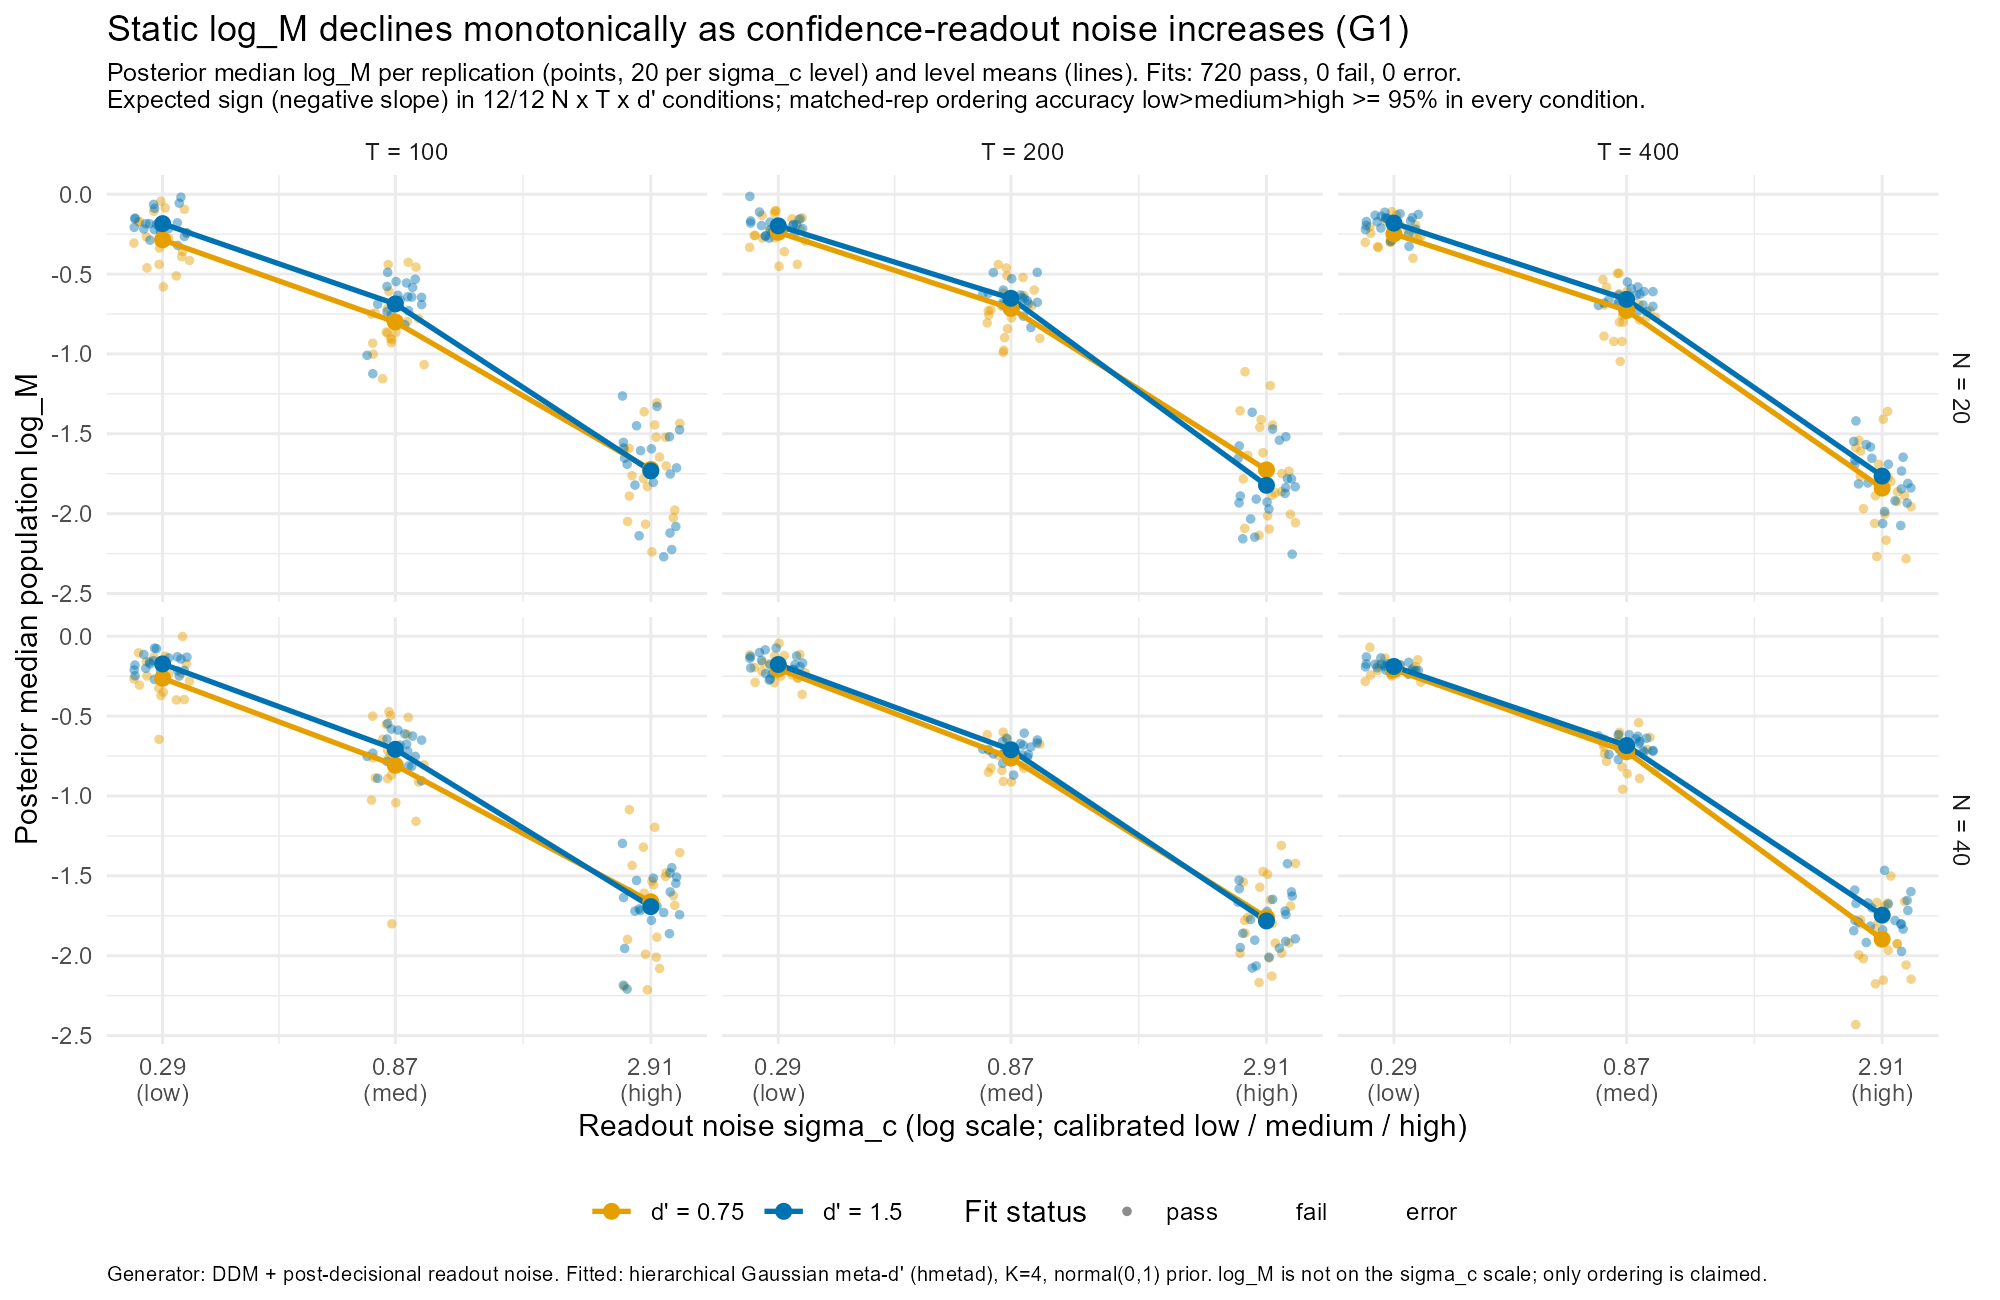
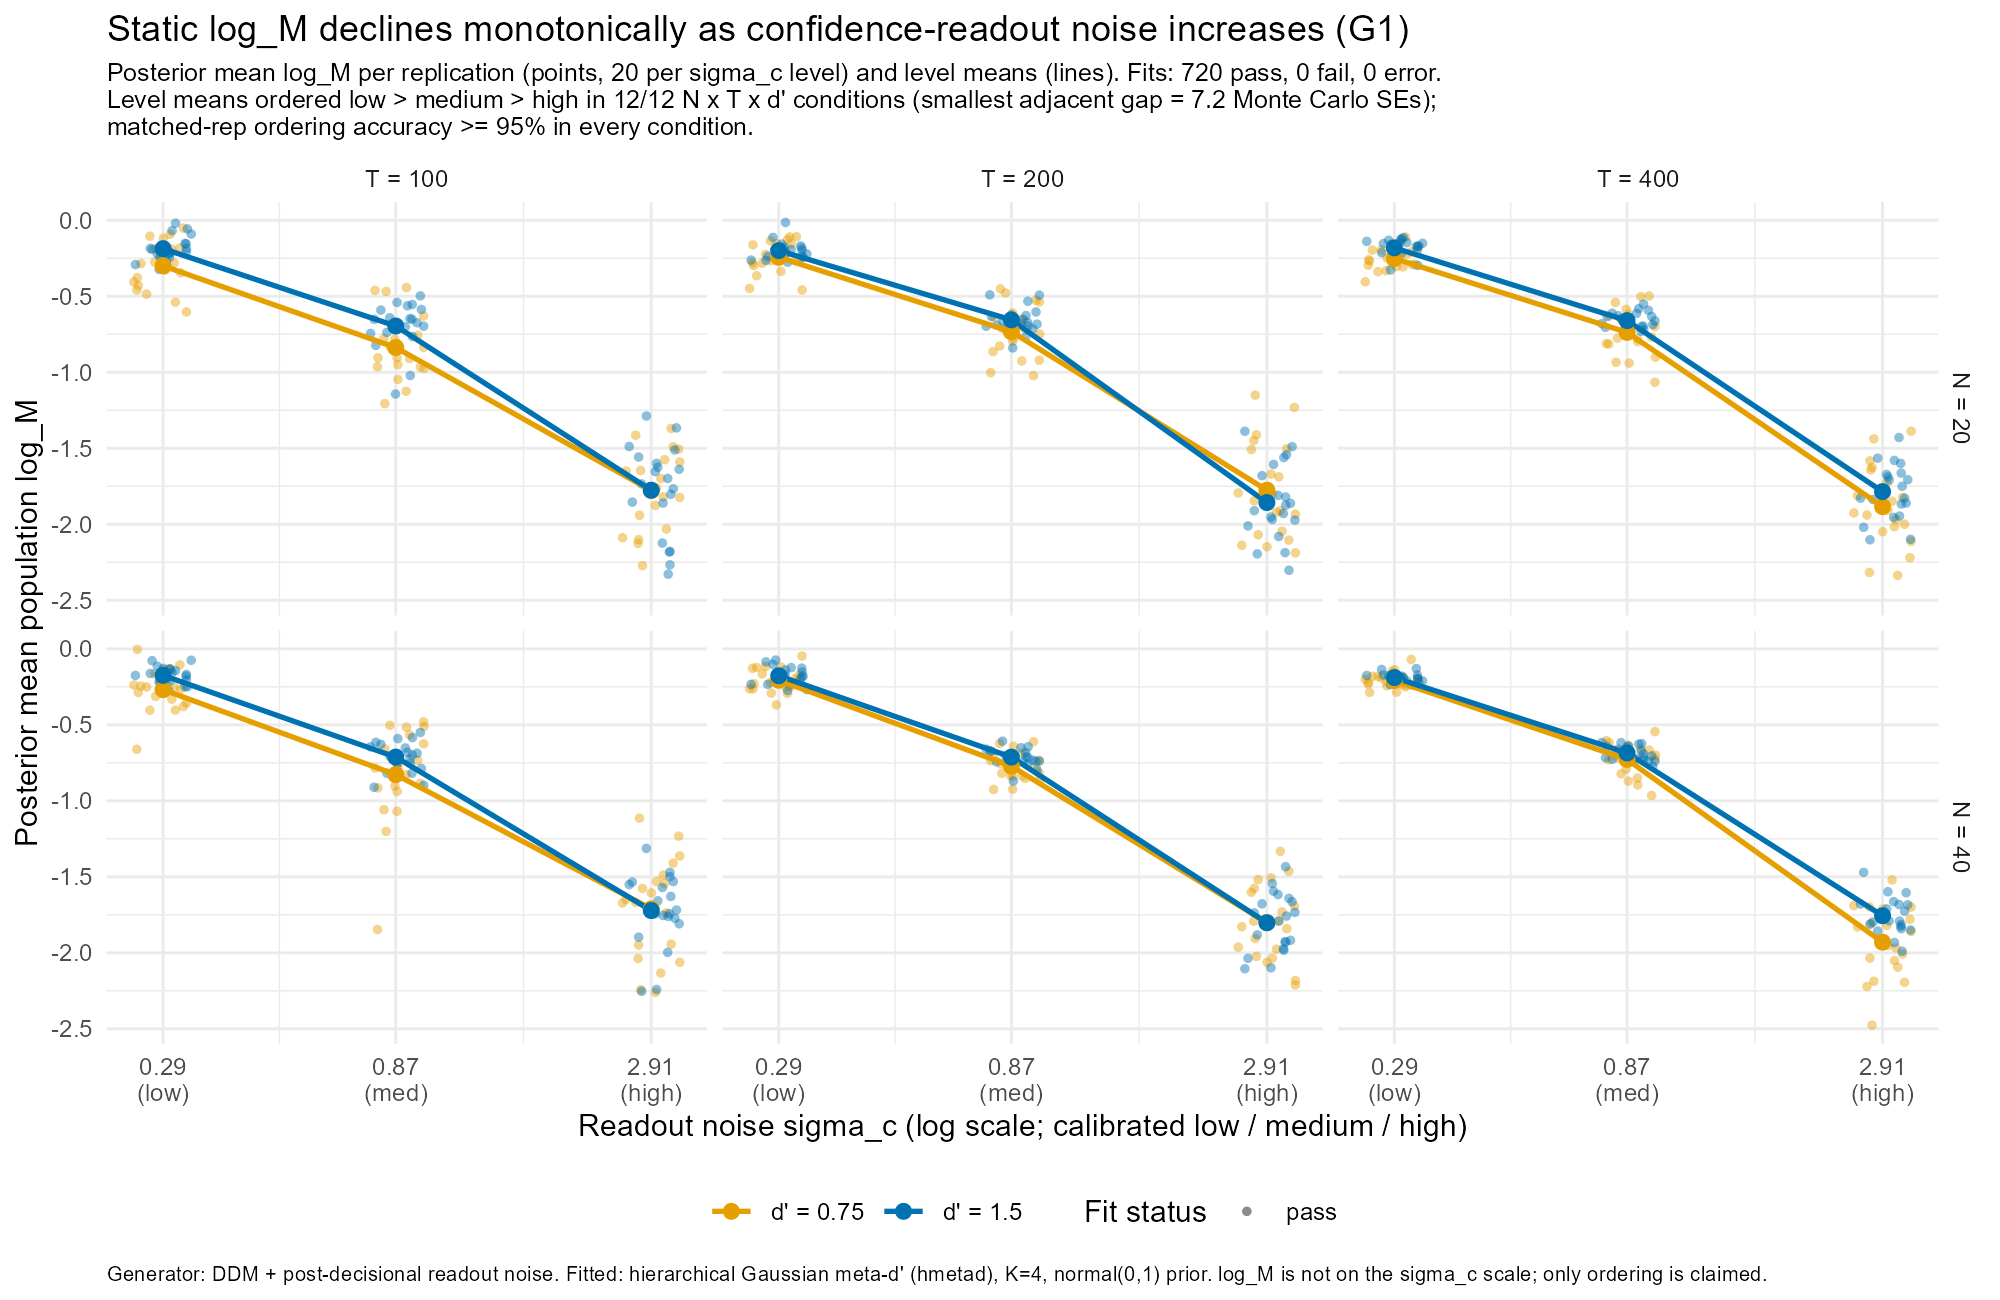
refactor: G1 summary as level means/differences with MC SEs, posterior-mean primary, R-hat > threshold, stable Gumbel lcdf (review items 6-10)

diff --git a/manuscript/report.md b/manuscript/report.md
@@ -4,7 +4,7 @@
 
 ## Abstract
 
-**Background.** Static meta-d′ models are widely fitted to confidence ratings, although confidence may arise from dynamic, noisy post-decisional processes. **Methods.** We simulated ordinal confidence from a drift-diffusion process with post-decisional readout noise (G1), from the meta-d′ model itself (G0), and from a non-Gaussian Gumbel-min signal distribution (G2), and fitted hierarchical Bayesian meta-d′ models with `hmetad` (20 or 40 participants, 100–400 trials, 20 replications per cell; 1,440 fits). **Results.** In G1, posterior log M fell as readout noise rose in all 12 design cells (slopes −0.50 to −0.63); the expected ordering held in every matched replication in 11 cells and in 95% in the twelfth. G0 credible-interval coverage was 95.8% pooled across cells. In G2, leave-one-out comparison preferred the correct family in 96.2% of datasets, and Gaussian misspecification biased log M upward (+0.06 to +0.20). Posterior predictive discrepancies were small for every representative fit, including the misspecified one. **Conclusions.** In this generator, ordinal recovery of metacognitive efficiency was robust, but small predictive discrepancy did not diagnose misspecification. Conclusions are conditional on the simulated processes.
+**Background.** Static meta-d′ models are widely fitted to confidence ratings, although confidence may arise from dynamic, noisy post-decisional processes. **Methods.** We simulated ordinal confidence from a drift-diffusion process with post-decisional readout noise (G1), from the meta-d′ model itself (G0), and from a non-Gaussian Gumbel-min signal distribution (G2), and fitted hierarchical Bayesian meta-d′ models with `hmetad` (20 or 40 participants, 100–400 trials, 20 replications per cell; 1,440 fits). **Results.** In G1, posterior log M fell as readout noise rose in all 12 design cells (adjacent-level differences in mean log M of 0.46 to 0.57 for low−medium and 0.88 to 1.20 for medium−high); the expected ordering held in every matched replication in 11 cells and in 95% in the twelfth. G0 credible-interval coverage was 95.8% pooled across cells. In G2, leave-one-out comparison preferred the correct family in 96.2% of datasets, and Gaussian misspecification biased log M upward (+0.06 to +0.20). Posterior predictive discrepancies were small for every representative fit, including the misspecified one. **Conclusions.** In this generator, ordinal recovery of metacognitive efficiency was robust, but small predictive discrepancy did not diagnose misspecification. Conclusions are conditional on the simulated processes.
 
 ## 1. Background and rationale
 
@@ -16,7 +16,7 @@ Simulation is required because real data contain no known noise parameter, so re
 
 Design decisions were written to `docs/design_decisions.md` before production runs and any deviation is dated there and in `docs/analysis_log.md`.
 
-- **RQ1 (G1).** When confidence is generated with readout noise σ_c, does posterior `log_M` from a static Gaussian model fall monotonically as σ_c rises? *Prediction:* negative slope of `log_M` on σ_c and the ordering low > medium > high in most replications. We do not claim that `log_M` numerically recovers σ_c; the two are on different scales.
+- **RQ1 (G1).** When confidence is generated with readout noise σ_c, does posterior `log_M` from a static Gaussian model fall monotonically as σ_c rises? *Prediction:* level means ordered low > medium > high and that ordering in most replications. We do not claim that `log_M` numerically recovers σ_c; the two are on different scales.
 - **RQ2 (G2).** When the signal distribution is Gumbel-min, how do inference and predictive fit change between the correctly specified and the default Gaussian model? *Prediction:* LOO prefers the correct family, more strongly with more data.
 - **RQ3.** How often do fits fail diagnostics, and where? Failure is reported as an outcome, not as bias.
 
@@ -41,7 +41,7 @@ All fits use a hierarchical `hmetad` model with participant-level random interce
 A fit passes if max R-hat < 1.01, bulk and tail ESS ≥ 400, and there are no divergences or maximum-treedepth hits, judged on population-level effects and random-effect SDs. A flagged fit is refitted once (adapt_delta 0.99, treedepth 14). If it is still flagged it is labelled `fail`. **Pre-registered rule:** the primary analysis includes `pass` and `fail` fits (failures flagged); the sensitivity analysis uses `pass` only; `error` rows would be excluded from estimation and counted as convergence failures.
 
 ### 3.5 Metrics
-G0: bias, RMSE, 95% credible-interval coverage (Wilson intervals; pooled across cells because per-cell coverage is imprecise at 20 replications). G1: per-cell regression slope of posterior median `log_M` on σ_c, Spearman correlation, ordering accuracy (paired by replication index; σ_c levels do not share simulation seeds), and Mann–Whitney-style separation probabilities. G2: paired ELPD difference (correct − misspecified) from LOO, whose observation unit is one *participant's* aggregated count vector, and `log_M` bias/RMSE for each family. Robustness: prior width, K = 6 re-binning of the G1 data (G0 cannot be re-binned; see Limitations), and posterior predictive checks.
+G0: bias, RMSE, 95% credible-interval coverage (Wilson intervals; pooled across cells because per-cell coverage is imprecise at 20 replications). G1: per-cell means of posterior-mean `log_M` at each σ_c level, adjacent-level differences with Monte Carlo SEs, Spearman correlation, ordering accuracy (paired by replication index; σ_c levels do not share simulation seeds), and Mann–Whitney-style separation probabilities. G2: paired ELPD difference (correct − misspecified) from LOO, whose observation unit is one *participant's* aggregated count vector, and `log_M` bias/RMSE for each family. Robustness: prior width, K = 6 re-binning of the G1 data (G0 cannot be re-binned; see Limitations), and posterior predictive checks.
 
 ## 4. Results
 
@@ -49,7 +49,7 @@ G0: bias, RMSE, 95% credible-interval coverage (Wilson intervals; pooled across 
 Posterior mean `log_M` was negatively biased in all 12 cells (−0.177 to −0.025), and RMSE generally fell with more data and higher d′ (from 0.326 at N = 20, T = 200, d′ = 0.75 to 0.069 at N = 40, T = 400, d′ = 1.5), though not strictly monotonically in T within d′ = 0.75. Pooled coverage was 95.8% (230/240; 95% CI 92.5–97.7%; MCSE 1.3%). Per-cell coverage ranged from 80% to 100%, which is uninformative on its own at 20 replications per cell.
 
 ### 4.2 G1: ordinal recovery (Fig. 3)
-All 720 G1 fits passed. In all 12 N × T × d′ cells the slope of `log_M` on σ_c was negative (−0.504 to −0.627; every p < 10⁻²¹), Spearman ρ was between −0.92 and −0.94, and separation probabilities for adjacent noise levels were ≥ 0.965. Ordering accuracy was 100% (20/20 matched replications) in 11 cells and 95% (19/20) in the remaining one. Pass-only sensitivity results are identical because there were no failures. The K = 6 re-binning check (G1 only; 5 replications per level, 15 fits, identical continuous evidence and responses) gave the same ordering accuracy (100% at K = 4 and K = 6); posterior medians moved by 0.027 on average (max 0.099) and all 15 paired intervals overlapped.
+All 720 G1 fits passed. In all 12 N × T × d′ cells the level means were ordered low > medium > high. Mean `log_M` ranged from −0.30 to −0.18 (low), −0.84 to −0.66 (medium) and −1.93 to −1.71 (high); adjacent differences were 0.46–0.57 (low−medium) and 0.88–1.20 (medium−high), the smallest being 7.2 Monte Carlo SEs. Spearman ρ was between −0.92 and −0.94, and separation probabilities for adjacent noise levels were ≥ 0.965. Ordering accuracy was 100% (20/20 matched replications) in 11 cells and 95% (19/20) in the remaining one; results with the posterior median were the same (0.95–1.00). (The earlier linear-slope summary and its p-values were dropped: the three levels are not equally spaced and p-values on simulation replicates only reflect the number of replications.) Pass-only sensitivity results are identical because there were no failures. The K = 6 re-binning check (G1 only; 5 replications per level, 15 fits, identical continuous evidence and responses) gave the same ordering accuracy (100% at K = 4 and K = 6); posterior medians moved by 0.027 on average (max 0.099) and all 15 paired intervals overlapped.
 
 ### 4.3 G2: distributional misspecification (Fig. 4)
 The correct family was preferred in 96.2% of the 240 paired datasets (72.9% by more than two standard errors). The mean ELPD advantage grew from +2.2 at N = 20, T = 100, d′ = 0.75 to +83.1 at N = 40, T = 400, d′ = 1.5; in the least informative cells the preference was weak (as few as 10% of pairs exceeded two SE). The correctly specified fit had a small negative `log_M` bias in all 12 cells (−0.092 to −0.007; RMSE 0.042–0.272). The Gaussian fit was biased *upward* in all 12 cells (+0.064 to +0.195; RMSE 0.105–0.299), i.e. it made participants look more metacognitively efficient than the generating truth. **Pareto-k caveat:** 12.0% (correct) and 8.2% (misspecified) of LOO observations had k > 0.7, affecting most fits (181/240 and 165/240 had at least one such participant). No remedy was applied, so ELPD magnitudes are approximate; the direction is supported by its consistency across pairs.

diff --git a/docs/analysis_log.md b/docs/analysis_log.md
@@ -879,3 +879,28 @@ The report uses the verified table above.
   parameterisation is unverified and those rows are descriptive.
 - Outputs: bias_fit_level.csv, bias_diagnosis_summary.csv, bias_by_sample_size.csv, g2_coverage.csv,
   g2_nuisance_recovery.csv. Report Limitation (iv) reworded from "unexplained" to "partly characterised".
+
+## 2026-09-28 — Review items 6-10: G1 summary, point estimate, R-hat boundary, Gumbel CDF
+
+- **6-7 (G1 summary).** `compute_primary_metrics.R` no longer fits a linear slope of `log_M` on
+  sigma_c or reports its p-values: the three calibrated levels are not equally spaced on any
+  natural scale, and p-values on simulation replicates reflect only the replication count. It now
+  reports, per N x T x d' cell, per-level means, SDs and MC SEs, adjacent and low-high differences
+  with independent-sample MC SEs, Spearman, ordering accuracy and separation probabilities.
+  Result unchanged in substance: means ordered low > medium > high in 12/12 cells (mean `log_M`
+  -0.30..-0.18 / -0.84..-0.66 / -1.93..-1.71; differences 0.46-0.57 and 0.88-1.20; smallest
+  adjacent gap 7.2 MC SEs). Report abstract, RQ1 prediction, methods, results and README reworded;
+  the RQ1 prediction text was changed after seeing the data (it named the slope), which is noted here.
+- **9 (point estimate).** G0/G2 bias and RMSE used the posterior mean while G1 used the median.
+  G1 now uses the posterior mean; the median version is kept as a sensitivity
+  (`g1_primary_metrics_median.csv`): ordering accuracy 0.95-1.00 and 12/12 direction check both ways.
+  Fig 3 now plots posterior means; its subtitle no longer clips and the empty fail/error legend
+  entries are gone.
+- **8 (R-hat boundary).** `extract_fit_summary.R` now flags `max_rhat > rhat_max` instead of `>=`.
+  Fits with max R-hat exactly 1.01: 0 of 1,440, so no fit would be reclassified and nothing was refit.
+  (One fit has max R-hat 1.0124 and was already flagged.)
+- **10 (Gumbel CDF).** R-side `gumbel_min_lcdf` now uses `log(-expm1(-exp(z)))`, which keeps
+  precision when exp(z) is small. The Stan twin already used `log1m_exp`, so no fit is affected;
+  the stored G2 `epred_summary` objects were computed with the old R form and were not regenerated
+  (differences would arise only in extreme lower tails).
+- 54 tests pass; Fig 1 and Fig 3 regenerated.
